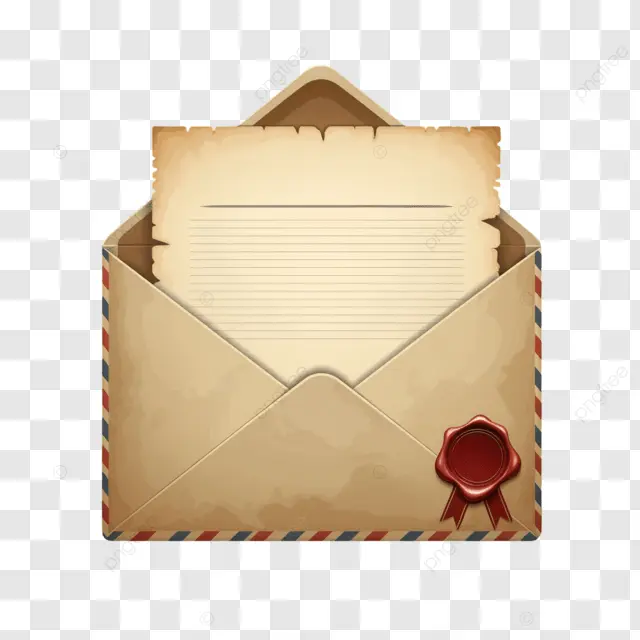
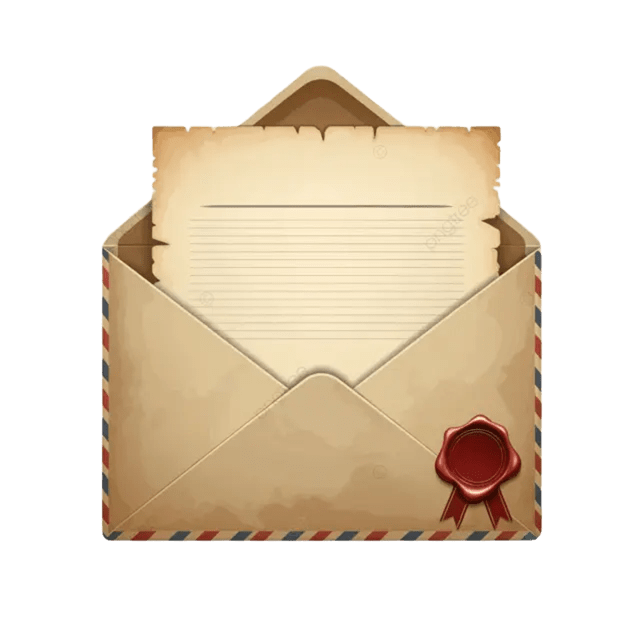
Конверт отлично работает

diff --git a/index.html b/index.html
@@ -120,7 +120,7 @@
             letter-spacing: 0.5px;
             text-transform: uppercase;
         }
-
+        
         .coordinates-block {
             background: #fff3e9;
             border-radius: 20px;
@@ -390,7 +390,7 @@ h1, h2, .birthday-message {
     align-items: stretch;
 }
 
- .coordinates-block, .riddle-block {
+ .coordinates-block, .riddle-block, .cor {
         cursor: pointer; /* чтобы было видно, что кликабельно */
         padding: 20px;
         margin: 10px;
@@ -410,7 +410,7 @@ h1, h2, .birthday-message {
 }
 .memory-image {
         cursor: pointer;
-        max-width: 300px;
+        max-width: 200px;
         border-radius: 20px;
         transition: transform 0.2s;
     }
@@ -433,11 +433,16 @@ h1, h2, .birthday-message {
     .coordinates-block.show {
     display: block !important;
 }
+   .cor.show {
+    display: block !important;
+}
 .riddle-block.show {
     display: block !important;
 }
+
 .coordinates-block.hidden,
-.riddle-block.hidden {
+.riddle-block.hidden,
+.cor.hidden {
     display: none !important;
 }
     </style>
@@ -600,10 +605,10 @@ h1, h2, .birthday-message {
             const point = points[currentPointIndex];
             
             let html = `
-                <div class="point">
+                <div class="point" >
                     <span class="badge">🗼 остановка ${currentPointIndex + 1}</span>
-                    <h2>📍 координаты</h2>
-                    <img src="images/Конверт.png" class="memory-image" id="clickImage">
+                    <img src="images/Конверт2.png" class="memory-image" id="clickImage" style="max-width=150px;">
+                    <h2 id="coor" class="cor" style="display: none;" >📍 координаты</h2>
 <div class="coordinates-block" id="secretMessage" style="display: none;">${point.coordinates}</div>
 
                     <div class="riddle-block" id="secretZadach" style="display:none;">🔍 ${point.riddle}</div>
@@ -753,47 +758,73 @@ h1, h2, .birthday-message {
         function setupHandlers() {
             console.log('Навешиваем обработчики...');
             
-            // 1. Конверт - показывает координаты
+            // 1. Конверт - показывает координаты и загадку
             const img = document.getElementById('clickImage');
             const coords = document.getElementById('secretMessage');
-            const zadaxh = document.getElementById('secretZadach');
+            const zadach = document.getElementById('secretZadach');
+            const coor = document.getElementById('coor');
             
-            if (img && coords) {
+            if (img) {
+                // Убираем старый обработчик
+                img.onclick = null;
+                
+                // Вешаем новый
                 img.onclick = function() {
-                    coords.style.display = 'block';
-                    console.log('Координаты показаны');
-                    zadaxh.style.display = 'block';
-                    console.log('Звгадка показана');
+                    console.log('Конверт нажат');
+                    
+                    if (coords) {
+                        coords.style.display = 'block';
+                        console.log('Координаты показаны');
+                    }
+                    
+                    if (coor) {
+                        coor.style.display = 'block';
+                        console.log('Заголовок координат показан');
+                    }
+                    
+                    if (zadach) {
+                        zadach.style.display = 'block';
+                        console.log('Загадка показана');
+                    }
+                    
+                    // Можно добавить небольшую анимацию
+                    this.style.transform = 'scale(0.95)';
+                    setTimeout(() => {
+                        this.style.transform = 'scale(1)';
+                    }, 200);
                 };
+            } else {
+                console.log('Конверт не найден!');
             }
             
-            // 2. Блок координат - добавляем класс hidden при клике
-            const coordBlock = document.querySelector('.coordinates-block');
-            if (coordBlock) {
-                // Убираем старый обработчик
-                coordBlock.onclick = null;
-                // Вешаем новый
-                coordBlock.onclick = function(e) {
-                    e.stopPropagation();
-                    this.classList.add('hidden');
-                    alert('Координаты открыты ❤');
-                    console.log('Координаты скрыты');
-                };
-            }
+            // 2. Блок координат - скрываем при клике
+            const coordBlock = document.getElementById('secretMessage');
+            // if (coordBlock) {
+            //     coordBlock.onclick = function(e) {
+            //         e.stopPropagation();
+            //         this.style.display = 'none';
+            //         console.log('Координаты скрыты');
+                    
+            //         // Можно показать уведомление
+            //         const coorTitle = document.getElementById('coor');
+            //         if (coorTitle) {
+            //             coorTitle.style.display = 'none';
+            //         }
+                    
+            //         alert('Координаты открыты ❤');
+            //     };
+            // }
             
-            // 3. Блок загадки - добавляем класс hidden при клике
-            const riddleBlock = document.querySelector('.riddle-block');
-            if (riddleBlock) {
-                // Убираем старый обработчик
-                riddleBlock.onclick = null;
-                // Вешаем новый
-                riddleBlock.onclick = function(e) {
-                    e.stopPropagation();
-                    this.classList.add('hidden');
-                    alert('Загадка открыта ❤');
-                    console.log('Загадка скрыта');
-                };
-            }
+            // 3. Блок загадки - скрываем при клике
+            const riddleBlock = document.getElementById('secretZadach');
+            // if (riddleBlock) {
+            //     riddleBlock.onclick = function(e) {
+            //         e.stopPropagation();
+            //         this.style.display = 'none';
+            //         console.log('Загадка скрыта');
+            //         alert('Загадка открыта ❤');
+            //     };
+            // }
             
             console.log('Обработчики навешены');
         }
@@ -802,19 +833,174 @@ h1, h2, .birthday-message {
         const container = document.getElementById('mainContainer');
         
         if (container) {
+            // Запускаем сразу
+            setupHandlers();
+            
+            // И наблюдаем за изменениями
             const observer = new MutationObserver(function(mutations) {
                 console.log('Контейнер изменился');
-                // Небольшая задержка, чтобы DOM точно обновился
-                setTimeout(setupHandlers, 100);
+                // Даем время на обновление DOM
+                setTimeout(setupHandlers, 200);
             });
             
-            observer.observe(container, { childList: true, subtree: true });
+            observer.observe(container, { 
+                childList: true, 
+                subtree: true,
+                attributes: false,
+                characterData: false 
+            });
         }
-        
-        // Первый запуск
-        setTimeout(setupHandlers, 500);
     });
 </script>
+
+<script>
+document.addEventListener('click', function(e) {
+    if (e.target.id === 'clickImage' || e.target.closest('#clickImage')) {
+        console.log('Конверт кликнут!');
+        
+        const img = e.target;
+        const coor = document.getElementById('coor');
+        const coords = document.getElementById('secretMessage');
+        const zadach = document.getElementById('secretZadach');
+        
+        // Анимация "открывания"
+        img.style.transition = 'transform 0.6s';
+        img.style.transform = 'rotateY(90deg)';
+        
+        setTimeout(() => {
+            // Меняем картинку (если есть вторая картинка)
+            if (img.src.includes('Конверт2.png')) {
+                img.src = 'images/images.png'; // картинка с содержимым
+            } else {
+                img.src = 'images/image.png'; // если нет - просто крутим обратно
+            }
+            img.style.transform = 'rotateY(0deg)';
+        }, 300);
+        
+        // Показываем элементы с задержкой
+        setTimeout(() => {
+            if (coor) {
+                coor.style.display = 'block';
+                coor.style.animation = 'slideIn 0.5s';
+            }
+            
+            if (coords) {
+                coords.style.display = 'block';
+                coords.style.animation = 'slideIn 0.7s';
+            }
+            
+            if (zadach) {
+                zadach.style.display = 'block';
+                zadach.style.animation = 'slideIn 0.9s';
+            }
+        }, 600);
+    }
+    
+    // Анимация для скрытия элементов
+    if (e.target.id === 'coor' || e.target.id === 'secretMessage' || e.target.id === 'secretZadach') {
+        e.target.style.animation = 'slideOut 0.3s';
+        
+        setTimeout(() => {
+            e.target.style.display = 'none';
+        }, 280);
+    }
+});
+</script>
+
+<style>
+@keyframes slideIn {
+    from { 
+        opacity: 0; 
+        transform: translateX(-20px);
+    }
+    to { 
+        opacity: 1; 
+        transform: translateX(0);
+    }
+}
+
+@keyframes slideOut {
+    from { 
+        opacity: 1; 
+        transform: translateX(0);
+    }
+    to { 
+        opacity: 0; 
+        transform: translateX(20px);
+    }
+}
+
+.memory-image {
+    transition: transform 0.3s, box-shadow 0.3s;
+    cursor: pointer;
+    border-radius: 15px;
+}
+
+.memory-image:hover {
+    transform: scale(1.05);
+    box-shadow: 0 15px 30px rgba(181, 126, 84, 0.3);
+}
+</style>
+
+<script>
+document.addEventListener('DOMContentLoaded', function() {
+    const img = document.getElementById('clickImage');
+    
+    if (img) {
+        // Запоминаем оригинальное фото
+        const originalSrc = img.src;
+        
+        // При наведении - меняем
+        img.addEventListener('mouseenter', function() {
+            this.style.transition = 'opacity 0.3s';
+            this.style.opacity = '0.7';
+            // Можно добавить подсказку
+            this.title = 'Кликни, чтобы открыть';
+        });
+        
+        // При убирании мыши - возвращаем
+        img.addEventListener('mouseleave', function() {
+            this.style.opacity = '1';
+        });
+    }
+});
+
+// Основной клик
+document.addEventListener('click', function(e) {
+    if (e.target.id === 'clickImage' || e.target.closest('#clickImage')) {
+        const img = e.target;
+        const coor = document.getElementById('coor');
+        const coords = document.getElementById('secretMessage');
+        const zadach = document.getElementById('secretZadach');
+        
+        // Анимация "хлопка"
+        img.style.transform = 'scale(0.8)';
+        img.style.transition = 'transform 0.2s';
+        
+        setTimeout(() => {
+            img.style.transform = 'scale(1)';
+        }, 200);
+        
+        // Показываем элементы
+        if (coor) coor.style.display = 'block';
+        if (coords) coords.style.display = 'block';
+        if (zadach) zadach.style.display = 'block';
+    }
+});
+</script>
+
+<style>
+.memory-image {
+    transition: transform 0.3s, opacity 0.3s, box-shadow 0.3s;
+    cursor: pointer;
+    border-radius: 15px;
+    box-shadow: 0 5px 15px rgba(0,0,0,0.1);
+}
+
+.memory-image:active {
+    transform: scale(0.95);
+}
+</style>
 
 
 </body>
